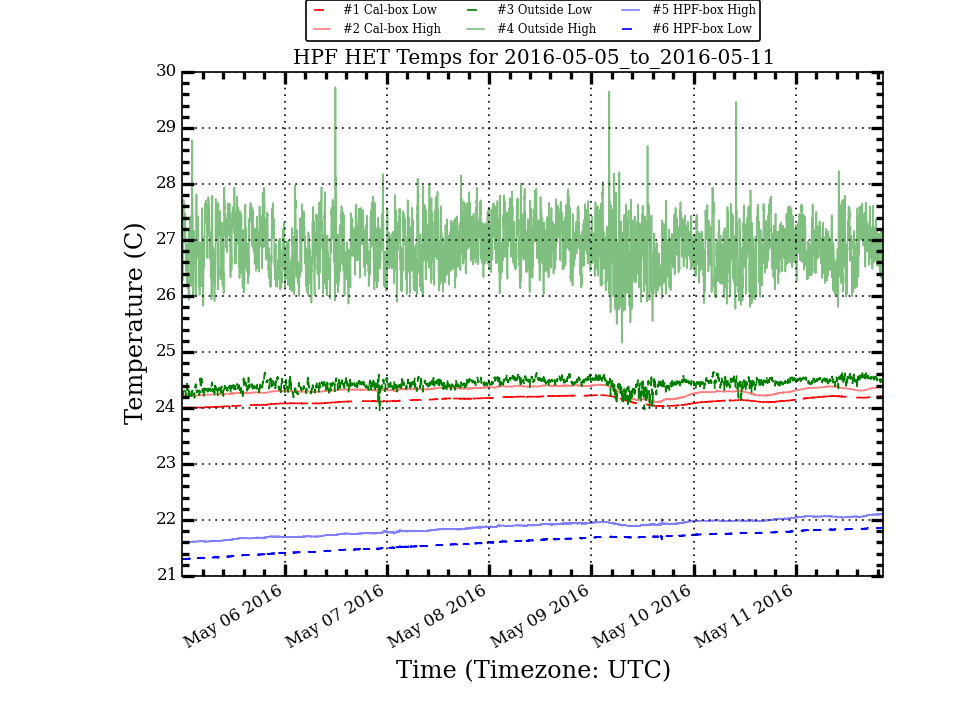
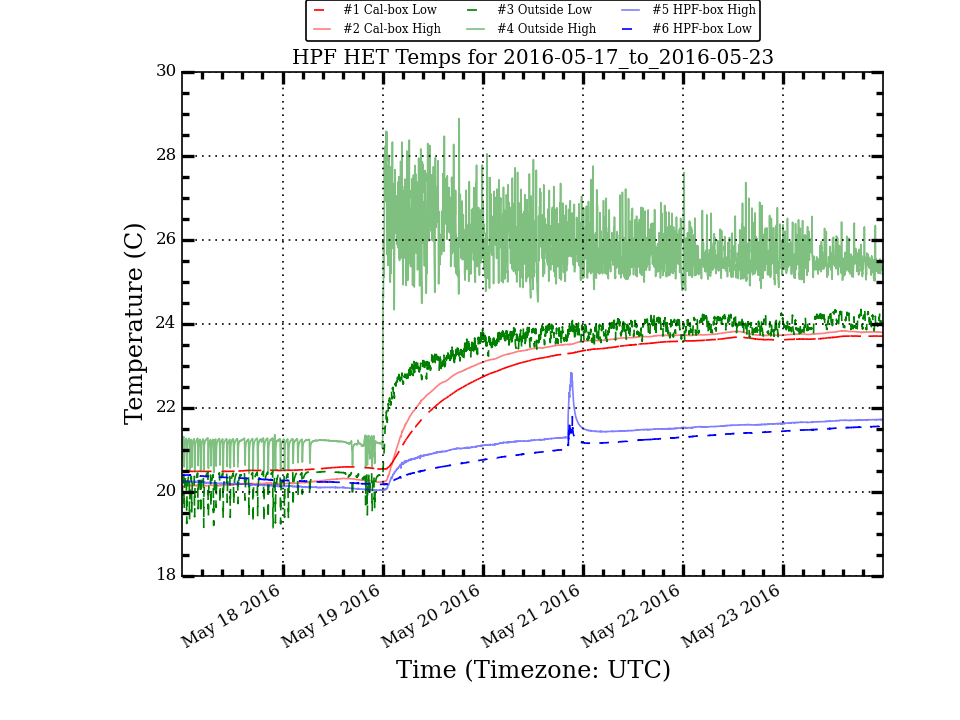
Update HPF Temp Plots

diff --git a/research/hpf_temps/plots/LakeShoreLogTotal_week_stats.html b/research/hpf_temps/plots/LakeShoreLogTotal_week_stats.html
@@ -10,56 +10,56 @@
  </TR>
  <TR>
   <TD>Cal_Low</TD>
-  <TD>24.131</TD>
-  <TD>0.062</TD>
-  <TD>24.131</TD>
-  <TD>24.231</TD>
-  <TD>24.004</TD>
-  <TD>0.227</TD>
+  <TD>22.401</TD>
+  <TD>1.347</TD>
+  <TD>23.149</TD>
+  <TD>23.715</TD>
+  <TD>20.484</TD>
+  <TD>3.231</TD>
  </TR>
  <TR>
   <TD>Cal_High</TD>
-  <TD>24.308</TD>
-  <TD>0.069</TD>
-  <TD>24.316</TD>
-  <TD>24.419</TD>
-  <TD>24.102</TD>
-  <TD>0.317</TD>
+  <TD>22.457</TD>
+  <TD>1.540</TD>
+  <TD>23.414</TD>
+  <TD>23.839</TD>
+  <TD>20.140</TD>
+  <TD>3.699</TD>
  </TR>
  <TR>
   <TD>Out_Low</TD>
-  <TD>24.434</TD>
-  <TD>0.086</TD>
-  <TD>24.445</TD>
-  <TD>24.659</TD>
-  <TD>23.902</TD>
-  <TD>0.757</TD>
+  <TD>22.736</TD>
+  <TD>1.593</TD>
+  <TD>23.664</TD>
+  <TD>24.349</TD>
+  <TD>19.149</TD>
+  <TD>5.200</TD>
  </TR>
  <TR>
   <TD>Out_High</TD>
-  <TD>26.886</TD>
-  <TD>0.444</TD>
-  <TD>26.874</TD>
-  <TD>29.728</TD>
-  <TD>25.166</TD>
-  <TD>4.562</TD>
+  <TD>24.485</TD>
+  <TD>2.176</TD>
+  <TD>25.428</TD>
+  <TD>28.890</TD>
+  <TD>20.447</TD>
+  <TD>8.443</TD>
  </TR>
  <TR>
   <TD>HPF_High</TD>
-  <TD>21.871</TD>
-  <TD>0.136</TD>
-  <TD>21.902</TD>
-  <TD>22.103</TD>
-  <TD>21.589</TD>
-  <TD>0.514</TD>
+  <TD>21.027</TD>
+  <TD>0.633</TD>
+  <TD>21.232</TD>
+  <TD>22.841</TD>
+  <TD>20.039</TD>
+  <TD>2.802</TD>
  </TR>
  <TR>
   <TD>HPF_Low</TD>
-  <TD>21.611</TD>
-  <TD>0.159</TD>
-  <TD>21.637</TD>
-  <TD>21.864</TD>
-  <TD>21.297</TD>
-  <TD>0.567</TD>
+  <TD>20.883</TD>
+  <TD>0.489</TD>
+  <TD>20.929</TD>
+  <TD>21.793</TD>
+  <TD>20.173</TD>
+  <TD>1.620</TD>
  </TR>
 </TABLE>

diff --git a/research/hpf_temps/plots/LakeShoreLogTotal_month_stats.html b/research/hpf_temps/plots/LakeShoreLogTotal_month_stats.html
@@ -10,56 +10,56 @@
  </TR>
  <TR>
   <TD>Cal_Low</TD>
-  <TD>21.200</TD>
-  <TD>3.336</TD>
-  <TD>23.325</TD>
-  <TD>24.231</TD>
-  <TD>16.351</TD>
-  <TD>7.880</TD>
+  <TD>23.170</TD>
+  <TD>1.237</TD>
+  <TD>23.597</TD>
+  <TD>24.396</TD>
+  <TD>20.460</TD>
+  <TD>3.936</TD>
  </TR>
  <TR>
   <TD>Cal_High</TD>
-  <TD>21.327</TD>
-  <TD>3.597</TD>
-  <TD>23.716</TD>
-  <TD>24.419</TD>
-  <TD>15.986</TD>
-  <TD>8.433</TD>
+  <TD>23.318</TD>
+  <TD>1.422</TD>
+  <TD>23.819</TD>
+  <TD>24.532</TD>
+  <TD>20.090</TD>
+  <TD>4.442</TD>
  </TR>
  <TR>
   <TD>Out_Low</TD>
-  <TD>21.500</TD>
-  <TD>3.650</TD>
-  <TD>23.937</TD>
-  <TD>24.674</TD>
-  <TD>15.206</TD>
-  <TD>9.468</TD>
+  <TD>23.384</TD>
+  <TD>1.665</TD>
+  <TD>24.104</TD>
+  <TD>24.796</TD>
+  <TD>17.638</TD>
+  <TD>7.158</TD>
  </TR>
  <TR>
   <TD>Out_High</TD>
-  <TD>23.836</TD>
-  <TD>4.632</TD>
-  <TD>26.674</TD>
-  <TD>30.048</TD>
-  <TD>16.397</TD>
-  <TD>13.651</TD>
+  <TD>25.716</TD>
+  <TD>2.230</TD>
+  <TD>26.619</TD>
+  <TD>29.728</TD>
+  <TD>19.178</TD>
+  <TD>10.550</TD>
  </TR>
  <TR>
   <TD>HPF_High</TD>
-  <TD>19.398</TD>
-  <TD>2.356</TD>
-  <TD>20.405</TD>
-  <TD>22.616</TD>
-  <TD>16.099</TD>
-  <TD>6.517</TD>
+  <TD>21.165</TD>
+  <TD>0.709</TD>
+  <TD>21.313</TD>
+  <TD>22.841</TD>
+  <TD>19.412</TD>
+  <TD>3.429</TD>
  </TR>
  <TR>
   <TD>HPF_Low</TD>
-  <TD>19.182</TD>
-  <TD>2.180</TD>
-  <TD>19.959</TD>
-  <TD>21.864</TD>
+  <TD>20.932</TD>
+  <TD>0.727</TD>
+  <TD>21.032</TD>
+  <TD>21.991</TD>
   <TD>9.505</TD>
-  <TD>12.359</TD>
+  <TD>12.486</TD>
  </TR>
 </TABLE>
